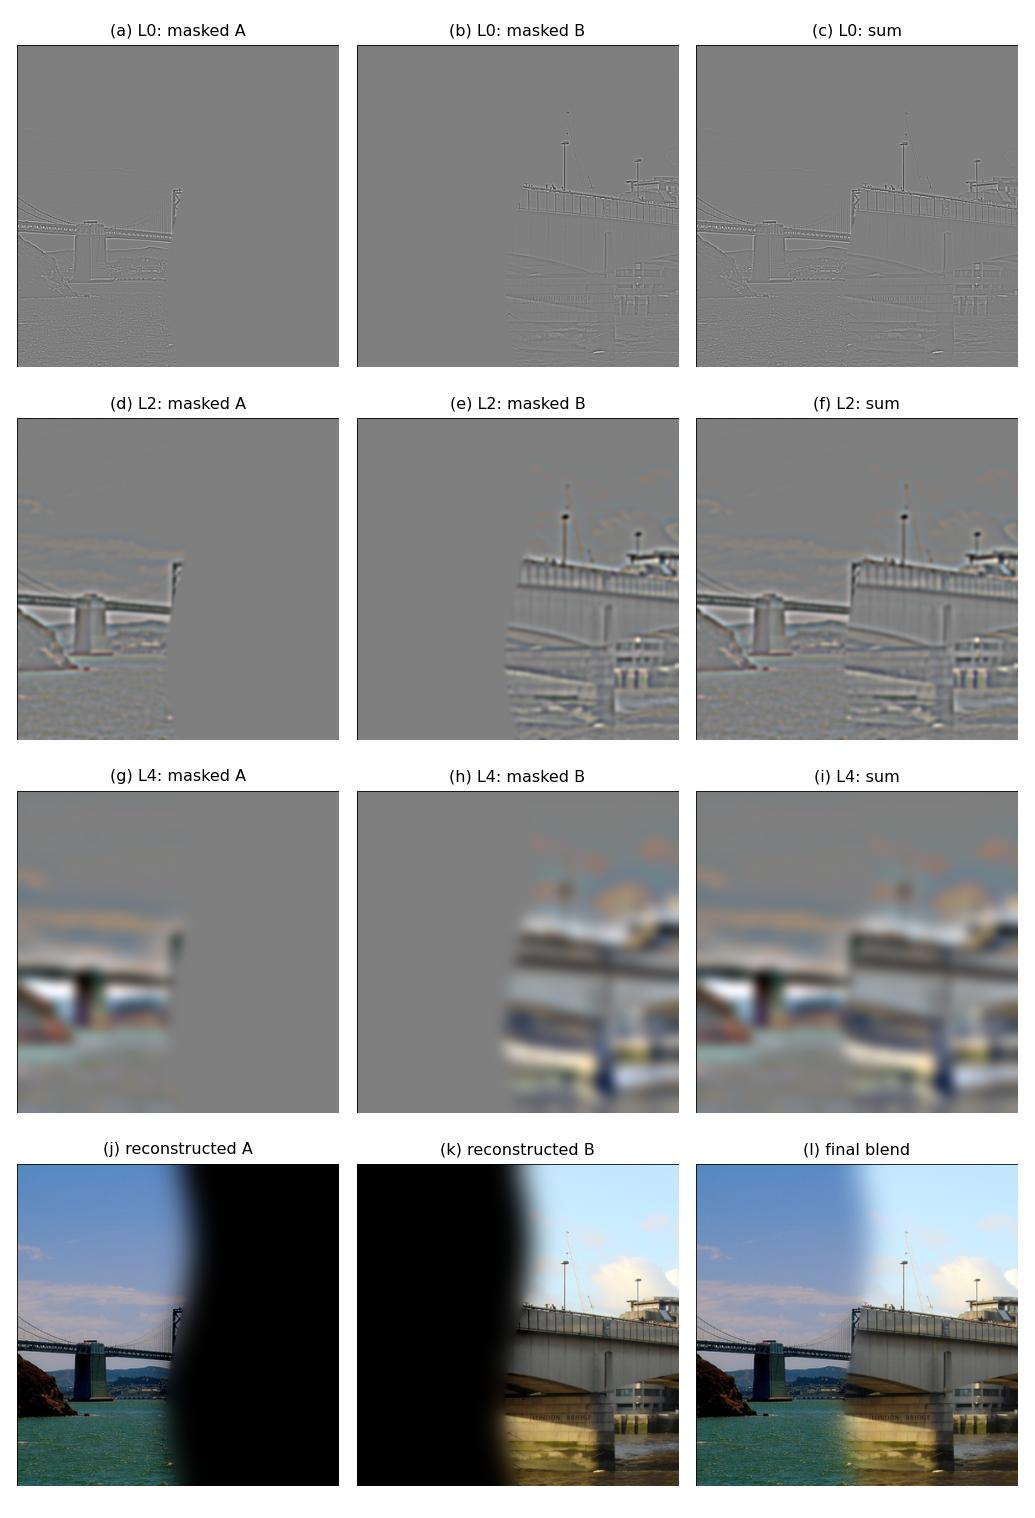
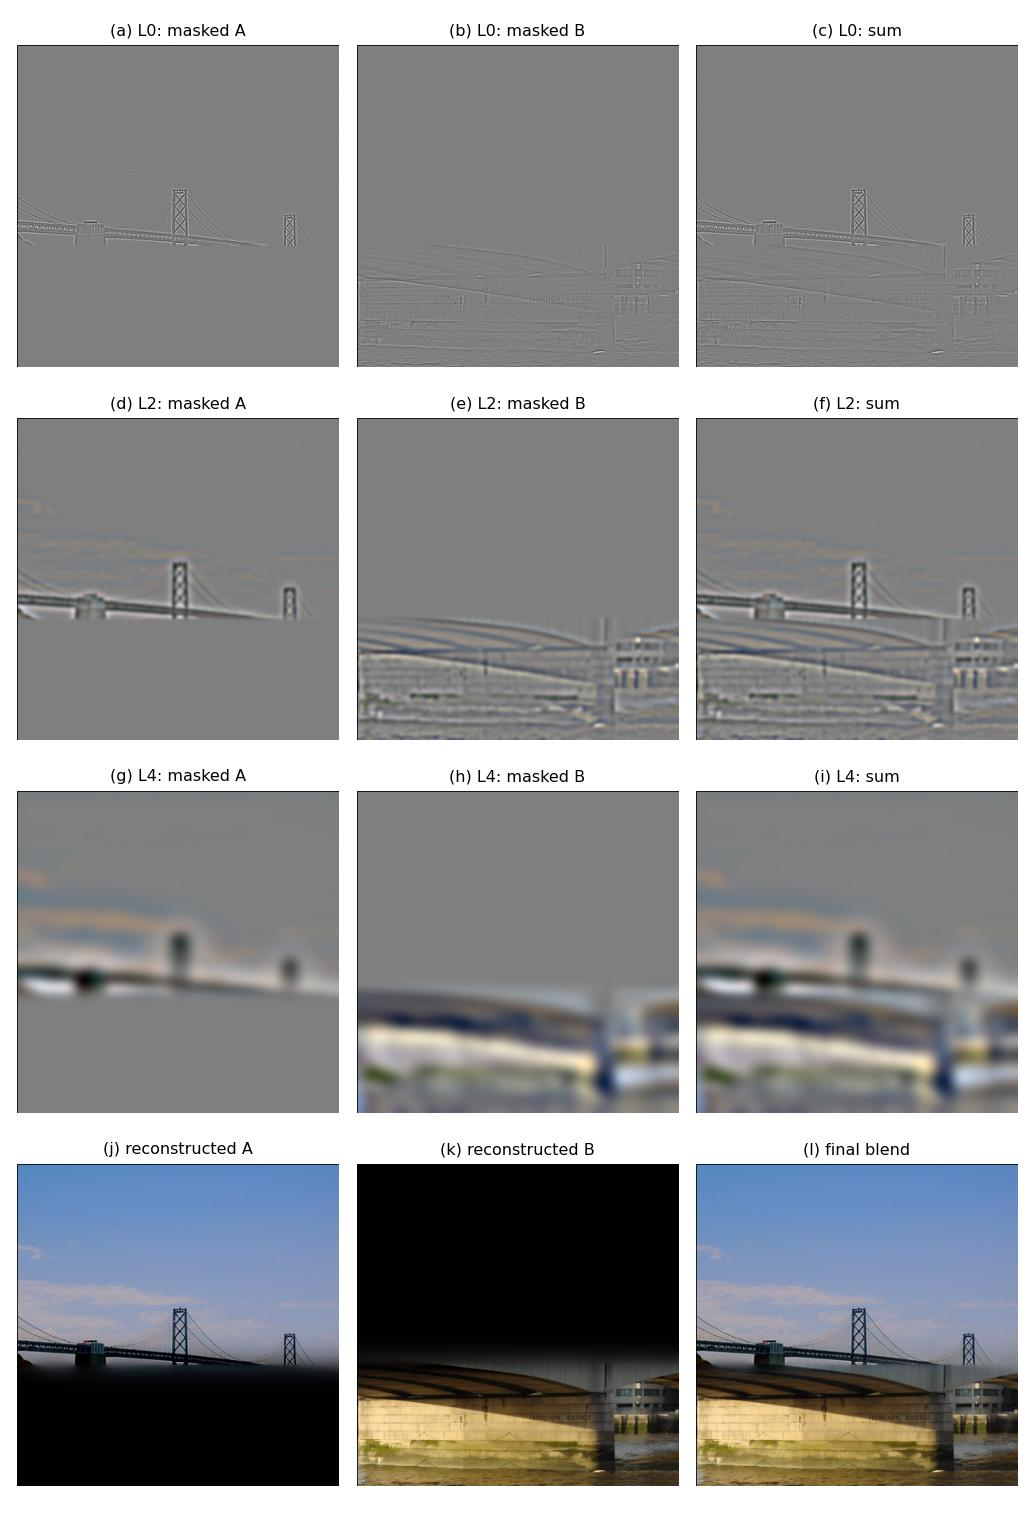
Blend bridge images top to bottom

diff --git a/static/cs180/proj2/index.html b/static/cs180/proj2/index.html
@@ -50,7 +50,7 @@ def convolve_two_loops(image, kernel):
 <section id="part2_1"><h2>2.1 — Image sharpening</h2><p>Gaussian blur retains low frequencies. Subtract it to obtain high frequencies, then add them back with weight α: S = I + α(I − G * I). The equivalent single convolution kernel is (1 + α)δ − αG.</p><figure><a href="images/2_1_taj.jpg?v=b76e0b8eefbd"><img src="images/2_1_taj.jpg?v=b76e0b8eefbd" alt="Taj: blur, high frequencies, and three sharpening amounts."></a><figcaption>Taj Mahal</figcaption></figure><figure><a href="images/2_1_campus.jpg?v=a842a9a7e0c4"><img src="images/2_1_campus.jpg?v=a842a9a7e0c4" alt="Campus: blur, high frequencies, and three sharpening amounts."></a><figcaption>Campus</figcaption></figure><figure><a href="images/2_1_recovery.jpg?v=94811f5a3c99"><img src="images/2_1_recovery.jpg?v=94811f5a3c99" alt="Blur-then-sharpen evaluation on my Proj0 campus photograph."></a><figcaption>Original → blur → resharpen</figcaption></figure><p>Larger α sharpens edges but introduces halos at α = 3. After deliberate blur, resharpening reduces campus-image MSE from 0.004495 to 0.003253. Edge contrast improves, but lost detail is not fully recovered.</p></section>
 <section id="part2_2"><h2>2.2 — Hybrid images</h2><p>H = GσL * A + (B − GσH * B). Low frequencies from A dominate at a distance; high-frequency detail from B dominates nearby.</p><p>Manually selected eye centers or building landmarks define rotation, uniform scaling and translation. Crop both aligned images to shared valid coverage.</p><figure><a href="images/2_2_derek_nutmeg.jpg?v=5a079198de8d"><img src="images/2_2_derek_nutmeg.jpg?v=5a079198de8d" alt="Derek + Nutmeg"></a><figcaption>Derek + Nutmeg</figcaption></figure><figure><a href="images/2_2_process.jpg?v=5f9551e8a2fd"><img src="images/2_2_process.jpg?v=5f9551e8a2fd" alt="Derek + Nutmeg: aligned inputs, filtered components, and hybrid."></a><figcaption>Derek + Nutmeg: alignment and filtering.</figcaption></figure><figure><a href="images/2_2_fourier.jpg?v=bec0647217ee"><img src="images/2_2_fourier.jpg?v=bec0647217ee" alt="Luminance log(1 + |fftshift(fft2(I))|); each panel is independently display-normalized."></a><figcaption>Log-magnitude luminance spectra; normalized per panel.</figcaption></figure><figure><a href="images/2_2_cutoffs.jpg?v=ee4ff94e6cd0"><img src="images/2_2_cutoffs.jpg?v=ee4ff94e6cd0" alt="Cutoff comparison at the same aligned resolution."></a><figcaption>Gaussian sigma comparison.</figcaption></figure><p>I choose σL = 5, σH = 3. Smaller values retain competing facial detail; (8, 5) lets broader cat features dominate. Low-pass energy concentrates near the frequency origin; the high-pass filter suppresses that center.</p><figure><a href="images/2_2_yuan_perspectives.jpg?v=3548d145b06b"><img src="images/2_2_yuan_perspectives.jpg?v=3548d145b06b" alt="Yuan + Perspectives"></a><figcaption>Yuan + Perspectives</figcaption></figure><figure><a href="images/2_2_church_monastery.jpg?v=b6f66523a2ee"><img src="images/2_2_church_monastery.jpg?v=b6f66523a2ee" alt="Church + Monastery"></a><figcaption>Church + Monastery</figcaption></figure><p>The portrait change is subtle because both inputs show the same person. The building hybrid is less successful: incompatible tower positions leave overlapping rooflines.</p></section>
 <section id="part2_3"><h2>2.3 — Gaussian and Laplacian stacks</h2><p>G0 = I; subsequent Gaussian levels use σ = 1, 2, 4, 8, 16 without downsampling. Li = Gi − Gi+1; the last level retains the coarsest Gaussian. Summing all Laplacian levels reconstructs I.</p><figure><a href="images/2_3_apple_gaussian.jpg?v=d73d2c39358d"><img src="images/2_3_apple_gaussian.jpg?v=d73d2c39358d" alt="Apple: Gaussian stack, no downsampling."></a><figcaption>Apple: Gaussian stack</figcaption></figure><figure><a href="images/2_3_apple_laplacian.jpg?v=f58592368f8e"><img src="images/2_3_apple_laplacian.jpg?v=f58592368f8e" alt="Apple: Laplacian bands; each signed band is display-normalized."></a><figcaption>Apple: Laplacian stack (signed bands normalized for display)</figcaption></figure><figure><a href="images/2_3_orange_gaussian.jpg?v=f9d4d41a5789"><img src="images/2_3_orange_gaussian.jpg?v=f9d4d41a5789" alt="Orange: Gaussian stack, no downsampling."></a><figcaption>Orange: Gaussian stack</figcaption></figure><figure><a href="images/2_3_orange_laplacian.jpg?v=5fac309a1a74"><img src="images/2_3_orange_laplacian.jpg?v=5fac309a1a74" alt="Orange: Laplacian bands; each signed band is display-normalized."></a><figcaption>Orange: Laplacian stack (signed bands normalized for display)</figcaption></figure><p>Early bands contain fine detail; later bands contain broader structure. The final residual retains low-frequency brightness.</p></section>
-<section id="part2_4"><h2>2.4 — Multiresolution blending</h2><p>Blend each Laplacian level as Mi · LAi + (1 − Mi) · LBi, then sum all levels, including the residual. Mi comes from a Gaussian stack of the mask, giving wider transitions at coarser scales.</p><figure><a href="images/2_4_oraple.jpg?v=bac837216020"><img src="images/2_4_oraple.jpg?v=bac837216020" alt="Oraple: inputs, mask, direct cut, and blend."></a><figcaption>Oraple</figcaption></figure><figure><a href="images/2_4_oraple_layers.jpg?v=47db385bb7b1"><img src="images/2_4_oraple_layers.jpg?v=47db385bb7b1" alt="Masked Laplacian contributions at levels 0, 2, 4 and their reconstruction; one shared display scale per band row."></a><figcaption>L0, L2, L4 and reconstruction (a–l); shared display scale within each band row.</figcaption></figure><figure><a href="images/2_4_oraple_masks.jpg?v=0b912e06ca0a"><img src="images/2_4_oraple_masks.jpg?v=0b912e06ca0a" alt="The mask’s Gaussian stack widens the transition at coarse scales."></a><figcaption>Gaussian mask stack</figcaption></figure><figure><a href="images/2_4_bridges.jpg?v=3bff3daabe81"><img src="images/2_4_bridges.jpg?v=3bff3daabe81" alt="Bay Bridge + London Bridge: inputs, mask, direct cut, and blend."></a><figcaption>Bay Bridge + London Bridge</figcaption></figure><figure><a href="images/2_4_bridges_layers.jpg?v=3aa33e5701e6"><img src="images/2_4_bridges_layers.jpg?v=3aa33e5701e6" alt="Masked Laplacian contributions at levels 0, 2, 4 and their reconstruction; one shared display scale per band row."></a><figcaption>L0, L2, L4 and reconstruction (a–l); shared display scale within each band row.</figcaption></figure><figure><a href="images/2_4_bridges_masks.jpg?v=a95a818bdb2c"><img src="images/2_4_bridges_masks.jpg?v=a95a818bdb2c" alt="The mask’s Gaussian stack widens the transition at coarse scales."></a><figcaption>Gaussian mask stack</figcaption></figure><figure><a href="images/2_4_valley_wharf.jpg?v=de09b2bbc3b3"><img src="images/2_4_valley_wharf.jpg?v=de09b2bbc3b3" alt="Valley + Wharf: inputs, mask, direct cut, and blend."></a><figcaption>Valley + Wharf</figcaption></figure><p>Oraple uses a straight split; the bridge and river blends use curved masks. Blurring the mask reduces abrupt color transitions, but cannot remove differences in viewpoint and structure.</p><p>What I learned: different frequency bands need different transition widths; a Gaussian mask stack smooths brightness changes while keeping fine detail localized.</p><p class="source">Bridge photos: <a href="https://commons.wikimedia.org/wiki/File:San_Francisco-Oakland,_Bay_Bridge_from_Treasure_Island_-_panoramio.jpg">Bay Bridge — Marthlu ParkerV</a> (<a href="https://creativecommons.org/licenses/by-sa/3.0/">CC BY-SA 3.0</a>); <a href="https://commons.wikimedia.org/wiki/File:London_Bridge_from_South_bank.jpg">London Bridge — Oxyman</a> (<a href="https://creativecommons.org/licenses/by/2.5/">CC BY 2.5</a>). Cropped, resized and blended; the bridge composite and its derived panels are shared under CC BY-SA 3.0.</p></section>
+<section id="part2_4"><h2>2.4 — Multiresolution blending</h2><p>Blend each Laplacian level as Mi · LAi + (1 − Mi) · LBi, then sum all levels, including the residual. Mi comes from a Gaussian stack of the mask, giving wider transitions at coarser scales.</p><figure><a href="images/2_4_oraple.jpg?v=bac837216020"><img src="images/2_4_oraple.jpg?v=bac837216020" alt="Oraple: inputs, mask, direct cut, and blend."></a><figcaption>Oraple</figcaption></figure><figure><a href="images/2_4_oraple_layers.jpg?v=47db385bb7b1"><img src="images/2_4_oraple_layers.jpg?v=47db385bb7b1" alt="Masked Laplacian contributions at levels 0, 2, 4 and their reconstruction; one shared display scale per band row."></a><figcaption>L0, L2, L4 and reconstruction (a–l); shared display scale within each band row.</figcaption></figure><figure><a href="images/2_4_oraple_masks.jpg?v=0b912e06ca0a"><img src="images/2_4_oraple_masks.jpg?v=0b912e06ca0a" alt="The mask’s Gaussian stack widens the transition at coarse scales."></a><figcaption>Gaussian mask stack</figcaption></figure><figure><a href="images/2_4_bridges.jpg?v=cc45eac8ebd9"><img src="images/2_4_bridges.jpg?v=cc45eac8ebd9" alt="Bay Bridge + London Bridge: inputs, mask, direct cut, and blend."></a><figcaption>Bay Bridge + London Bridge</figcaption></figure><figure><a href="images/2_4_bridges_layers.jpg?v=bcd6e13debe6"><img src="images/2_4_bridges_layers.jpg?v=bcd6e13debe6" alt="Masked Laplacian contributions at levels 0, 2, 4 and their reconstruction; one shared display scale per band row."></a><figcaption>L0, L2, L4 and reconstruction (a–l); shared display scale within each band row.</figcaption></figure><figure><a href="images/2_4_bridges_masks.jpg?v=f2e749f62ed3"><img src="images/2_4_bridges_masks.jpg?v=f2e749f62ed3" alt="The mask’s Gaussian stack widens the transition at coarse scales."></a><figcaption>Gaussian mask stack</figcaption></figure><figure><a href="images/2_4_valley_wharf.jpg?v=de09b2bbc3b3"><img src="images/2_4_valley_wharf.jpg?v=de09b2bbc3b3" alt="Valley + Wharf: inputs, mask, direct cut, and blend."></a><figcaption>Valley + Wharf</figcaption></figure><p>Oraple uses a left/right split; the bridges use a top/bottom split (Bay Bridge above, boundary at 62% height). The river blend uses a curved mask. Blurring the mask reduces abrupt color transitions, but cannot remove differences in viewpoint and structure.</p><p>What I learned: different frequency bands need different transition widths; a Gaussian mask stack smooths brightness changes while keeping fine detail localized.</p><p class="source">Bridge photos: <a href="https://commons.wikimedia.org/wiki/File:San_Francisco-Oakland,_Bay_Bridge_from_Treasure_Island_-_panoramio.jpg">Bay Bridge — Marthlu ParkerV</a> (<a href="https://creativecommons.org/licenses/by-sa/3.0/">CC BY-SA 3.0</a>); <a href="https://commons.wikimedia.org/wiki/File:London_Bridge_from_South_bank.jpg">London Bridge — Oxyman</a> (<a href="https://creativecommons.org/licenses/by/2.5/">CC BY 2.5</a>). Cropped, resized and blended; the bridge composite and its derived panels are shared under CC BY-SA 3.0.</p></section>
 <footer>Sources: <a href="https://cal-cs180.github.io/fa26/hw/proj2/index.html">Assignment and Taj Mahal</a>;
 <a href="https://courses.physics.illinois.edu/cs445/fa2020/projects/hybrid/ComputationalPhotography_ProjectHybrid.html">Derek Hoiem: Derek and Nutmeg</a>;
 <a href="https://github.com/scikit-image/scikit-image/blob/v0.19.3/skimage/data/camera.png">Cameraman: scikit-image sample</a>;
